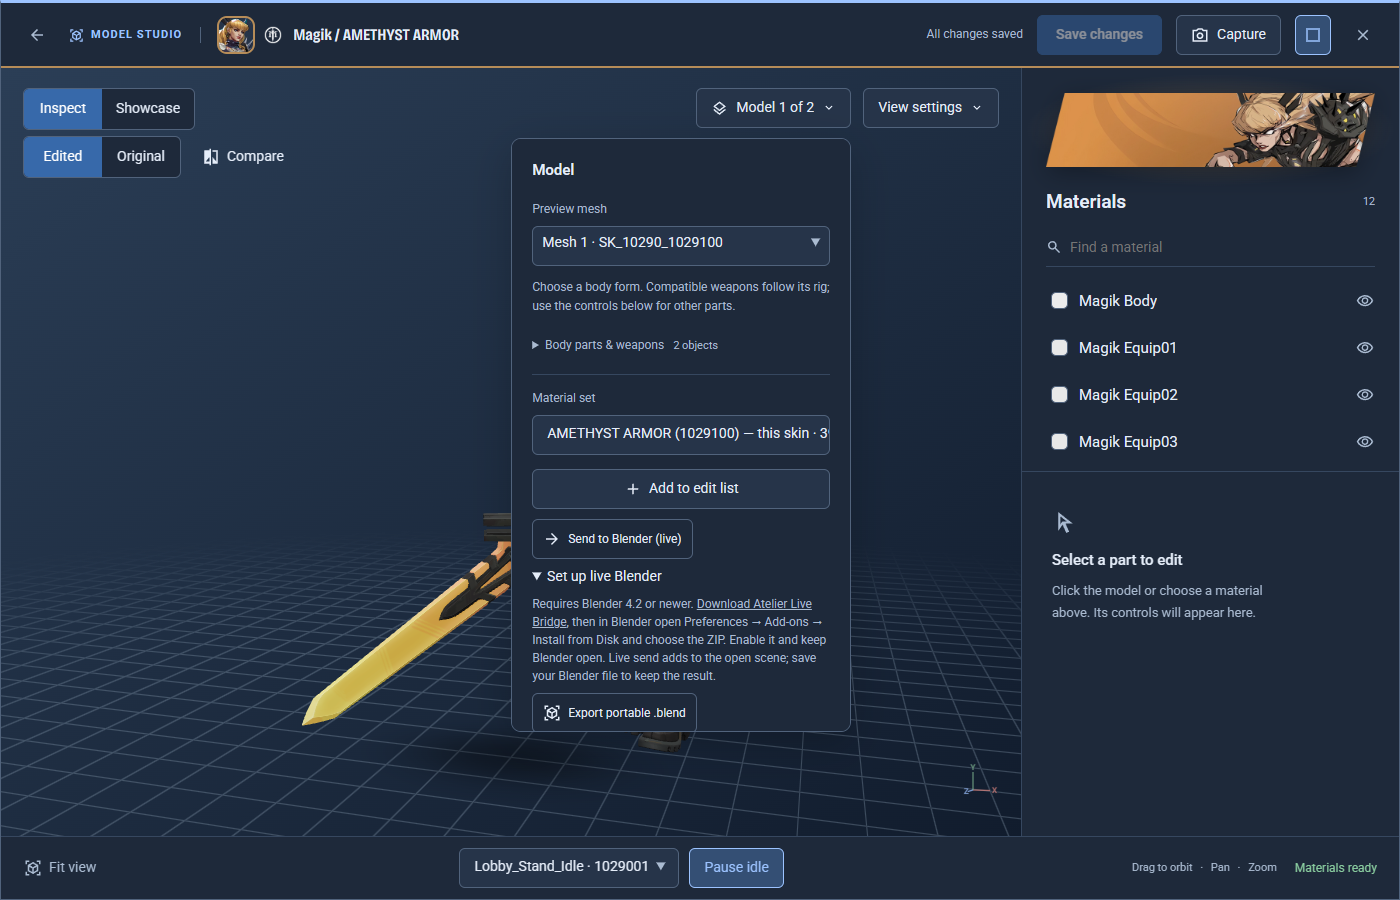
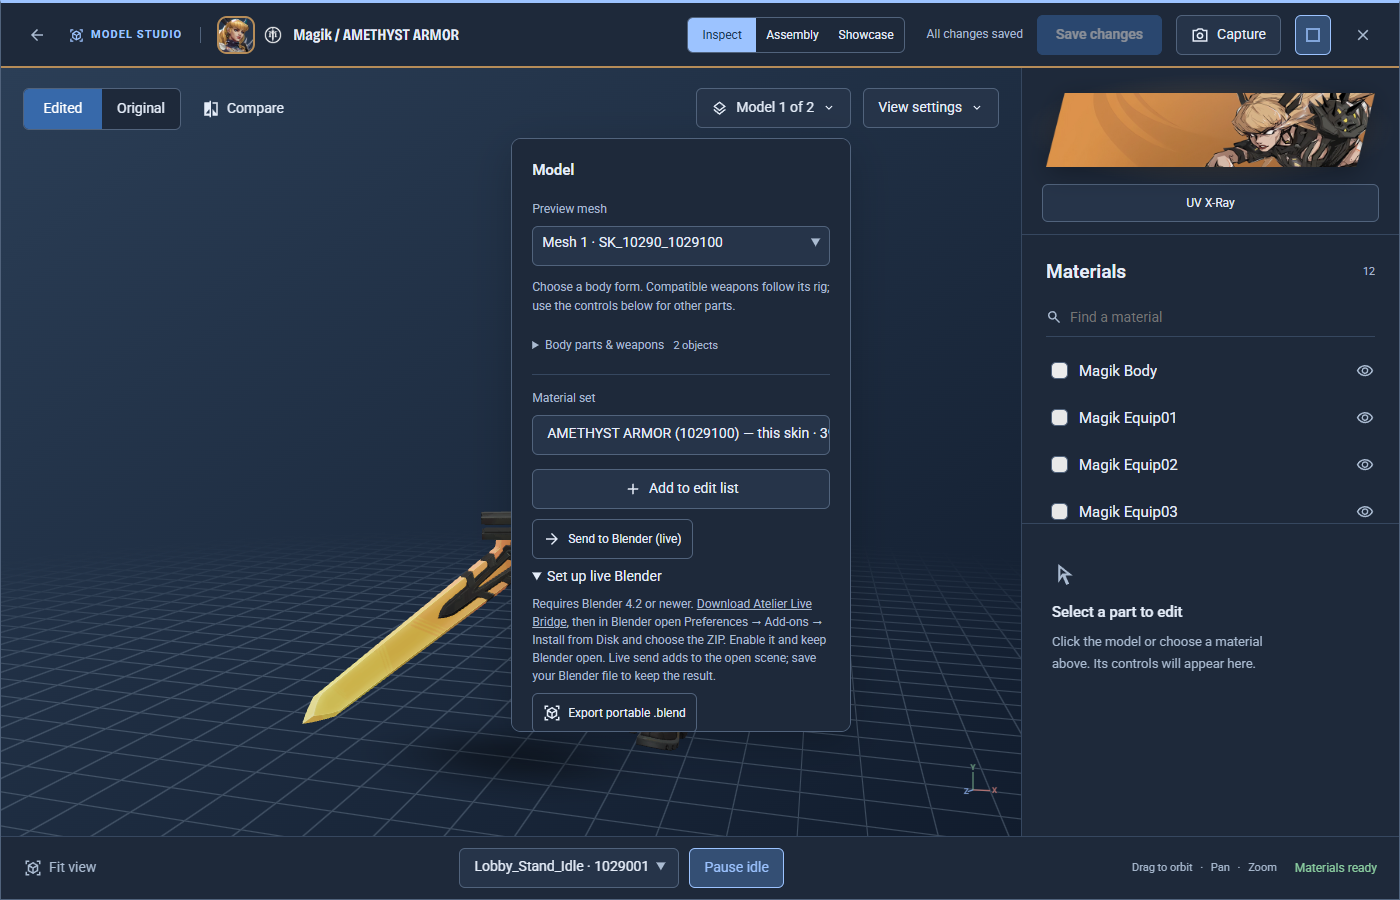
Release 1.1.2
Set the version, date the changelog, add the 1.1.2 release notes and Discord copy,
pin the published 1.1.1 installer and AppImage as the upgrade baseline, and
recapture the release screenshots from the 1.1.2 interface.

diff --git a/README.md b/README.md
@@ -1,35 +1,37 @@
 # Atelier: Modding Studio
 
-**Atelier 1.1.1** brings the Marvel Rivals modding workflow together: find heroes
+**Atelier 1.1.2** brings the Marvel Rivals modding workflow together: find heroes
 and assets, edit materials and textures, inspect models, and review your mod
 before building it. Available for Windows and Linux.
 
 [Download the latest release](https://github.com/clownfetus/Atelier/releases/latest)
-· [What's new in 1.1.1](docs/release-1.1.1.md)
+· [What's new in 1.1.2](docs/release-1.1.2.md)
 · [Tutorials](#tutorials)
 · [Development guide](docs/DEVELOPMENT.md)
 · [Report an issue](https://github.com/clownfetus/Atelier/issues)
 
-![Atelier 1.1.1 hero library in dark mode with global search and the Mod tray](images/studio-dark.png)
+![Atelier 1.1.2 hero library in dark mode with global search and the Mod tray](images/studio-dark.png)
 
-## What's new in 1.1.1
+## What's new in 1.1.2
+
+- **Textures match the game's brightness.** Exports keep their mip chain and build mips the way
+  the game does, so textures no longer look brighter or glarey at a distance.
+- **BC7 exports finish in seconds,** and textures added at a custom path no longer crash the game.
+- **Assembly View** shows a model surface's material and connected texture slots.
+- **VFX Motionboard** edits Niagara LUT tracks on a timeline with playback and comparison.
+- **Bulk edit materials** changes up to 1,000 materials at once.
+- **Settings → Tools** shows tool versions and updates, repairs or rolls back the container tool.
+- **Linux AppImage** runs on newer distributions, with native model previews and animations.
+
+See the [patch notes](docs/release-1.1.2.md) for details and verification limits.
+
+## Included from 1.1.1
 
 - **Send models to Blender.** Use the bundled Atelier Live Bridge extension with an
   open Blender session, or export a portable `.blend`. [Setup guide](docs/BLENDER.md).
-- **Find more folders by name.** Character and costume names and artwork follow
-  recognized IDs across the library, search, breadcrumbs, pins and asset pickers.
-- **Use HDR cubemaps.** Import Radiance panoramas, six-face strips or HDR DDS
-  cubemaps, including material reflection slots, with all six faces retained.
-- **Keep Blender projects smaller.** Pack model textures into the `.blend`
-  without adding them to the project; existing painted textures are preserved.
-- **Prepare models faster on Windows.** Reuse the game reader, batch extraction
-  and load the selected body and weapons before optional forms and attachments.
-- **Preview and export more reliably.** Character materials, masks, weapon grips,
-  alternate forms and the T_Visor texture export error have dedicated fixes.
-  Replacement preparation preserves geometry modifiers and winding and catches
-  unassigned faces before rebuilding lower detail levels.
-
-See the [patch notes](docs/release-1.1.1.md) for details and verification limits.
+- **Find more folders by name** across the library, search, breadcrumbs, pins and asset pickers.
+- **Use HDR cubemaps,** including material reflection slots, with all six faces retained.
+- **Prepare models faster on Windows** and preview and export characters more reliably.
 
 ## Included from 1.1
 
@@ -64,8 +66,8 @@ See the [patch notes](docs/release-1.1.1.md) for details and verification limits
   actual work, a Mod tray for edits, and a review before Build mod. A slow update
   service no longer holds up launch.
 
-These instructions describe **1.1.1**. Check the release title when downloading;
-a candidate branch does not replace the latest published installer. See the [release notes](docs/release-1.1.1.md)
+These instructions describe **1.1.2**. Check the release title when downloading;
+a candidate branch does not replace the latest published installer. See the [release notes](docs/release-1.1.2.md)
 for verification and platform limits. Screenshots show the actual interface with
 an isolated, configured game installation; [capture details](images/README.md).
 
@@ -380,12 +382,12 @@ must be extracted in full; `Atelier.exe` needs its adjacent `_internal` director
 
 To make a Windows release discoverable by existing installations:
 
-1. Build the intended source with a higher numeric version, such as `1.1.1`.
+1. Build the intended source with a higher numeric version, such as `1.1.2`.
    [BUILD.bat](BUILD.bat) writes the application version and supplies the matching
    version to the installer compiler. Verify the installer and upgrade behavior
    using the [installer checks](docs/DEVELOPMENT.md#disposable-windows-installer-verification).
 2. Publish a stable release in **clownfetus/Atelier**, using that numeric tag
-   (`1.1.1` or `v1.1.1`) and attaching the installer named **AtelierSetup.exe**.
+   (`1.1.2` or `v1.1.2`) and attaching the installer named **AtelierSetup.exe**.
 3. Make it the latest release. The updater requires a version higher than the
    installed version; replacing an EXE under the same version will not trigger it.
 

diff --git a/docs/release-1.1.2.md b/docs/release-1.1.2.md
@@ -1,0 +1,66 @@
+# Atelier 1.1.2
+
+This patch fixes textures that came out brighter than the game's own, makes BC7 texture exports
+fast again, adds three editors, and rebuilds every bundled tool from pinned source with one
+toolchain.
+
+## What changed
+
+- **Exported textures match the game's brightness.** Character, weapon and world textures keep
+  their mip chain again (only UI textures skip it, where it prevents blur), and the mips Atelier
+  builds now match the game's own. They were averaged in the wrong colour space, which made
+  textures look brighter or glarey at a distance.
+- **BC7 exports finish in seconds.** A 1366×1366 BC7 texture with mips took about 44 seconds and
+  now takes about 2, so multi-texture builds no longer appear to hang.
+- **Textures added at a custom path no longer crash the game** with "Serial size mismatch".
+  Atelier refuses to ship a renamed texture whose size differs from a normal edit of the same image.
+- **Assembly View.** Beside Inspect and Showcase, select a model surface to see its geometry,
+  verified material and connected texture slots. Texture and material selections highlight the
+  surfaces that actually use them.
+- **VFX Motionboard.** Edit Niagara LUT tracks on a synchronized timeline with playback,
+  original/edited comparison and per-point or per-track restores. Untouched LUTs are preserved.
+- **Bulk edit materials.** Review and save opacity, scalar, colour, parent or full material
+  changes for up to 1,000 assets at once.
+- **Settings → Tools.** See each bundled tool's version, update the container tool between Atelier
+  releases when a game patch needs it, repair missing or damaged tools, and roll back an update.
+  Every download is hash-checked and must still offer the commands Atelier uses.
+- **Clearer tool errors.** A missing tool now says which one and how to restore it, instead of
+  "[WinError 2] The system cannot find the file specified".
+- **Linux AppImage runs on newer distributions.** It uses the system's GTK and WebKit together,
+  runs model previews and idle animations natively instead of through Wine, and is built on
+  Ubuntu 24.04 so it also runs on current Fedora, Debian 13 and Ubuntu.
+
+## Under the hood
+
+- One native helper, **AtelierNative**, replaces the separate mesh, animation and import tools.
+  It is built from the same CUE4Parse version as before, so previews are byte-for-byte unchanged.
+- Every bundled tool is listed with its exact source and hashes in `toolchain/tools.lock.json`
+  and built by one script. The shader tool's source-built executable reproduces exactly.
+- On Windows, container unpacking and packing use Atelier's source-built retoc 3.10.2, which keeps
+  extracted files inside their output folder and fails when an asset cannot be written.
+- UAssetTool is built from current upstream source with Atelier's texture fixes.
+- Atelier runs on Python 3.15.
+
+## Updating
+
+- **Windows:** close Atelier and run `AtelierSetup.exe` in your existing location.
+  Projects and settings are retained. The portable ZIP contains the same files.
+- **Linux:** download `Atelier-1.1.2-x86_64.AppImage`, mark it executable and launch.
+  Bundled tools refresh while user data is retained.
+
+Matching source, screenshots, release copy, `SHA256SUMS.txt` and `VERIFICATION.json` are attached.
+The verification file records the tested commit and installer hashes.
+
+## Verification and limits
+
+Mesh and animation output from AtelierNative was compared byte for byte with the previous tools on
+Windows and Linux. Real game files were used for texture, dye, added-asset, material-replacement,
+bulk-edit, triage and shader round-trip checks. The release workflow checks the packaged Windows
+application, clean install, upgrade from the published **1.1.1** installer, reinstall and
+uninstall on two Windows runners, plus Linux startup and a **1.1.1 AppImage** upgrade.
+
+In-game rendering remains unverified. The texture brightness fix was measured against the game's
+own mips, not checked in game. HDR Texture2D, EXR, virtual textures and cube arrays remain
+unsupported. Live Blender and model replacement on Linux have a separate validation scope.
+
+[Full changelog](https://github.com/clownfetus/Atelier/blob/1.1.2/CHANGELOG.md)

diff --git a/CHANGELOG.md b/CHANGELOG.md
@@ -3,7 +3,9 @@
 The app, installers and update checker identify each release by its full number, such as
 **1.1.1**.
 
-## Unreleased
+## 1.1.2 — 22 October 2026
+
+### Editors
 
 - Add optional **Assembly View** beside Inspect and Showcase: select a model
   surface to inspect its geometry, verified material and connected texture slots.
@@ -53,8 +55,10 @@ The app, installers and update checker identify each release by its full number,
 - The three model helpers (mesh export, idle animations, persistent imports) are one tool,
   built from source with the exact library version they shipped with, so previews are
   byte-for-byte unchanged and the installer is smaller.
-- Container unpacking and packing use the current upstream retoc (3.10.2, was 3.4.1);
-  UAssetTool is built from the current upstream source with Atelier's texture fixes.
+- Container unpacking and packing use retoc 3.10.2 (was 3.4.1). On Windows this is Atelier's
+  source-built copy, which keeps every extracted file inside its output folder and fails when an
+  asset cannot be written; UAssetTool is built from the current upstream source with Atelier's
+  texture fixes.
 - Every bundled tool, including the shader tool rebuilt from source in 1.1.1, is listed with its
   exact source and hashes in one lockfile (`toolchain/tools.lock.json`), built by one script.
 - Atelier now runs on Python 3.15.

diff --git a/docs/discord-1.1.2.md b/docs/discord-1.1.2.md
@@ -1,0 +1,20 @@
+**Atelier 1.1.2**
+
+A patch for texture exports and tools, with three new editors.
+
+• Exported textures no longer look brighter or glarey in game: mips are kept and built the way the game builds them.
+• BC7 texture exports finish in seconds instead of close to a minute.
+• Textures added at a custom path no longer crash the game with "Serial size mismatch".
+• Assembly View: pick a model surface to see its material and connected texture slots.
+• VFX Motionboard: edit Niagara LUT tracks on a timeline with playback and before/after comparison.
+• Bulk edit materials: change opacity, scalars, colours or parents on up to 1,000 materials at once.
+• Settings → Tools shows tool versions and can update, repair or roll back the container tool.
+• Linux AppImage runs on newer distros again, with model previews and animations working without Wine.
+
+Windows installer, portable ZIP and Linux AppImage, with source and checksums.
+
+Download: https://github.com/clownfetus/Atelier/releases/tag/1.1.2
+
+Windows: close Atelier and install to your existing location. Linux: download the new AppImage and mark it executable.
+
+The brightness fix matches the game's own textures in our checks; please report anything that still looks off in game.

diff --git a/docs/LINUX.md b/docs/LINUX.md
@@ -7,11 +7,11 @@
 2. Install your distribution's WebKitGTK 4.1 runtime and `zenity` for file/folder
    pickers. Install Blender for Blender workflows.
 3. Mark the downloaded file executable and open it. For example, once you have
-   downloaded the 1.1.1 asset:
+   downloaded the 1.1.2 asset:
 
    ```sh
-   chmod +x Atelier-1.1.1-x86_64.AppImage
-   ./Atelier-1.1.1-x86_64.AppImage
+   chmod +x Atelier-1.1.2-x86_64.AppImage
+   ./Atelier-1.1.2-x86_64.AppImage
    ```
 
 4. Follow **Find the game → Unlock the paks → Make it yours**. Choose the game
@@ -29,7 +29,7 @@ The AppImage needs FUSE 2 to mount normally. If FUSE is unavailable, use the
 same downloaded filename with `--appimage-extract-and-run`:
 
 ```sh
-./Atelier-1.1.1-x86_64.AppImage --appimage-extract-and-run
+./Atelier-1.1.2-x86_64.AppImage --appimage-extract-and-run
 ```
 
 ## Desktop dependencies and feature support
